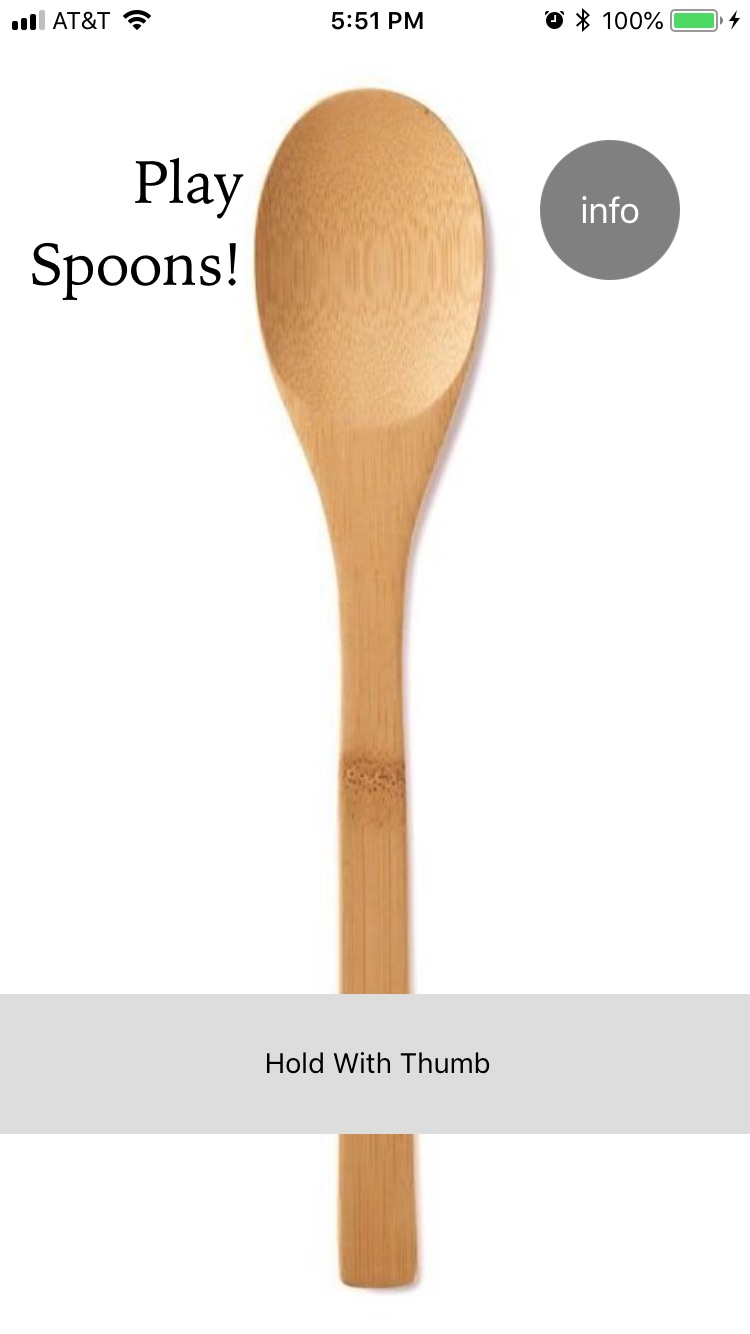
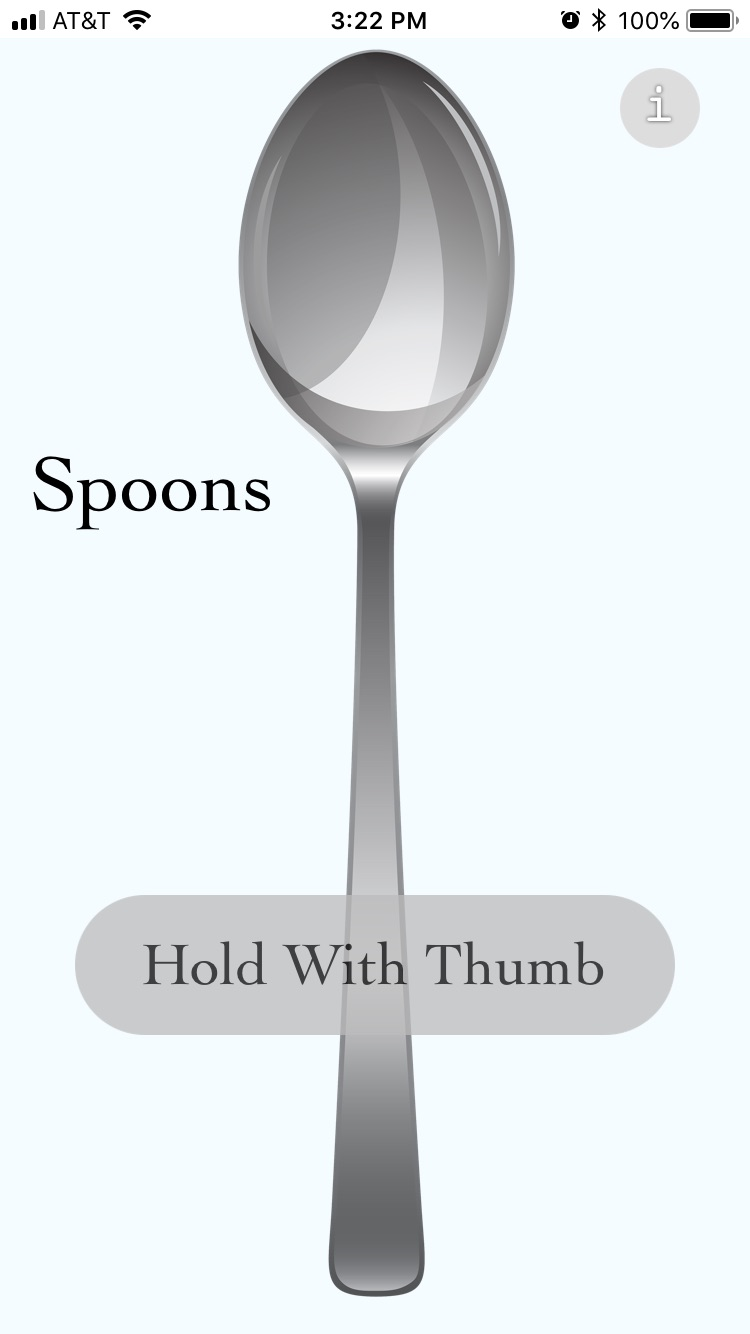
screenshot

diff --git a/App.js b/App.js
@@ -170,17 +170,20 @@ const styles = StyleSheet.create({
     right: 25,
     top: 15,
     backgroundColor: "#ddd",
-    height: 50,
-    width: 50,
+    height: 40,
+    width: 40,
     borderRadius: 40,
     justifyContent: "center",
     alignItems: "center"
   },
   infoTitle: {
     fontFamily: "Courier",
-    fontSize: 35,
     color: "white",
-    fontWeight: "400"
+    fontSize: 26,
+    fontWeight: "400",
+    textShadowColor: "rgba(0, 0, 0, 0.75)",
+    textShadowOffset: { width: 0, height: 0 },
+    textShadowRadius: 2
   },
   titleText: {
     fontSize: 40,
